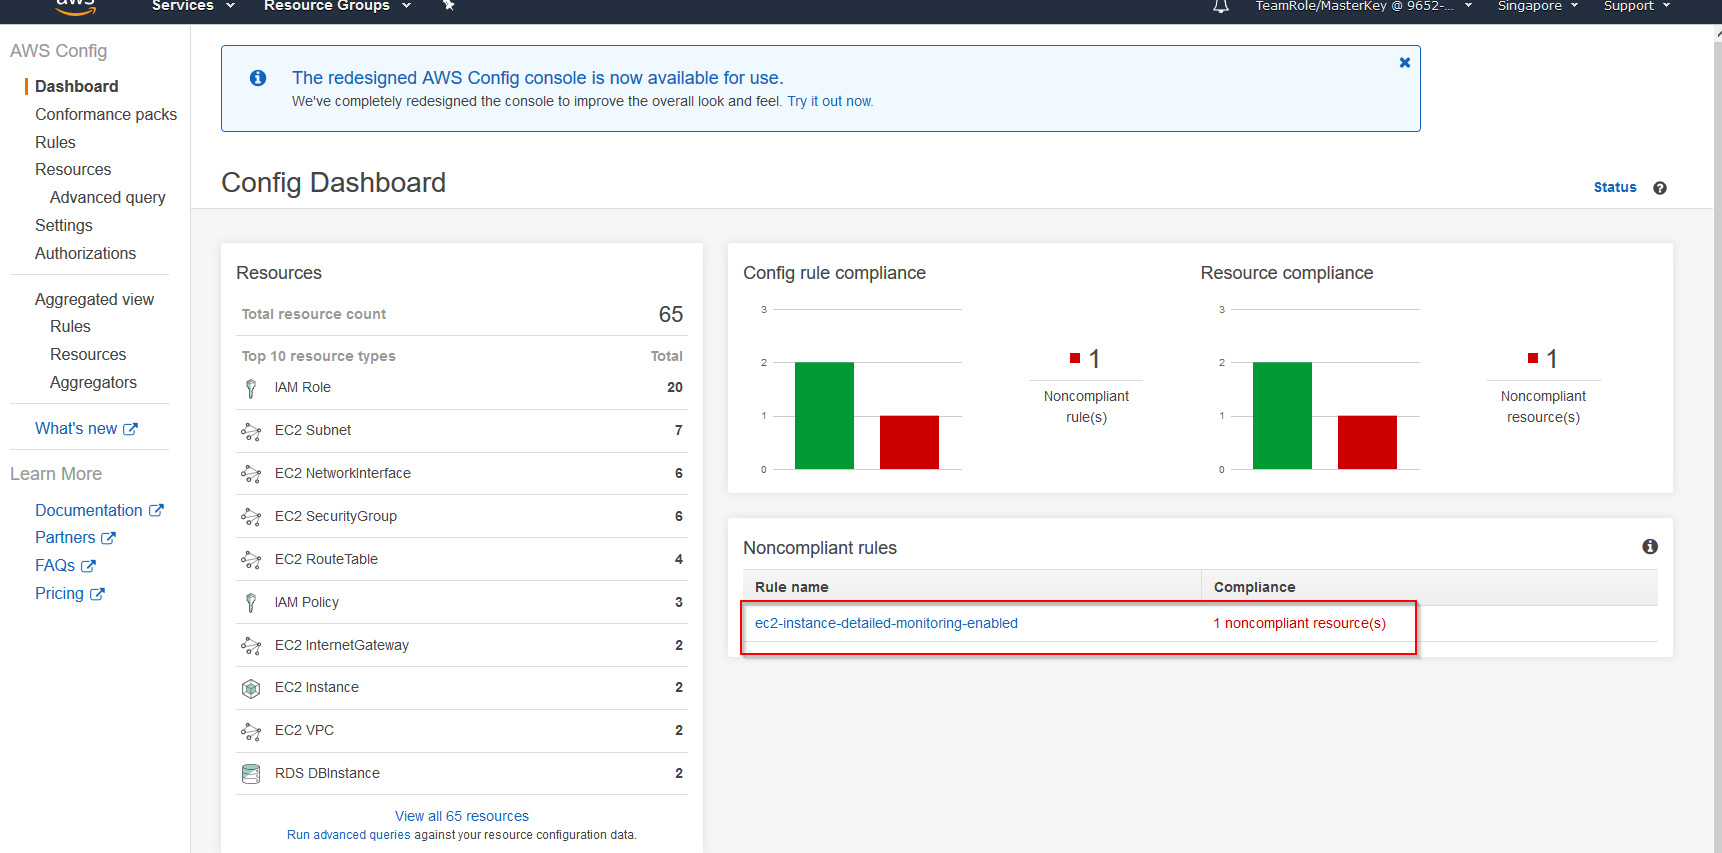
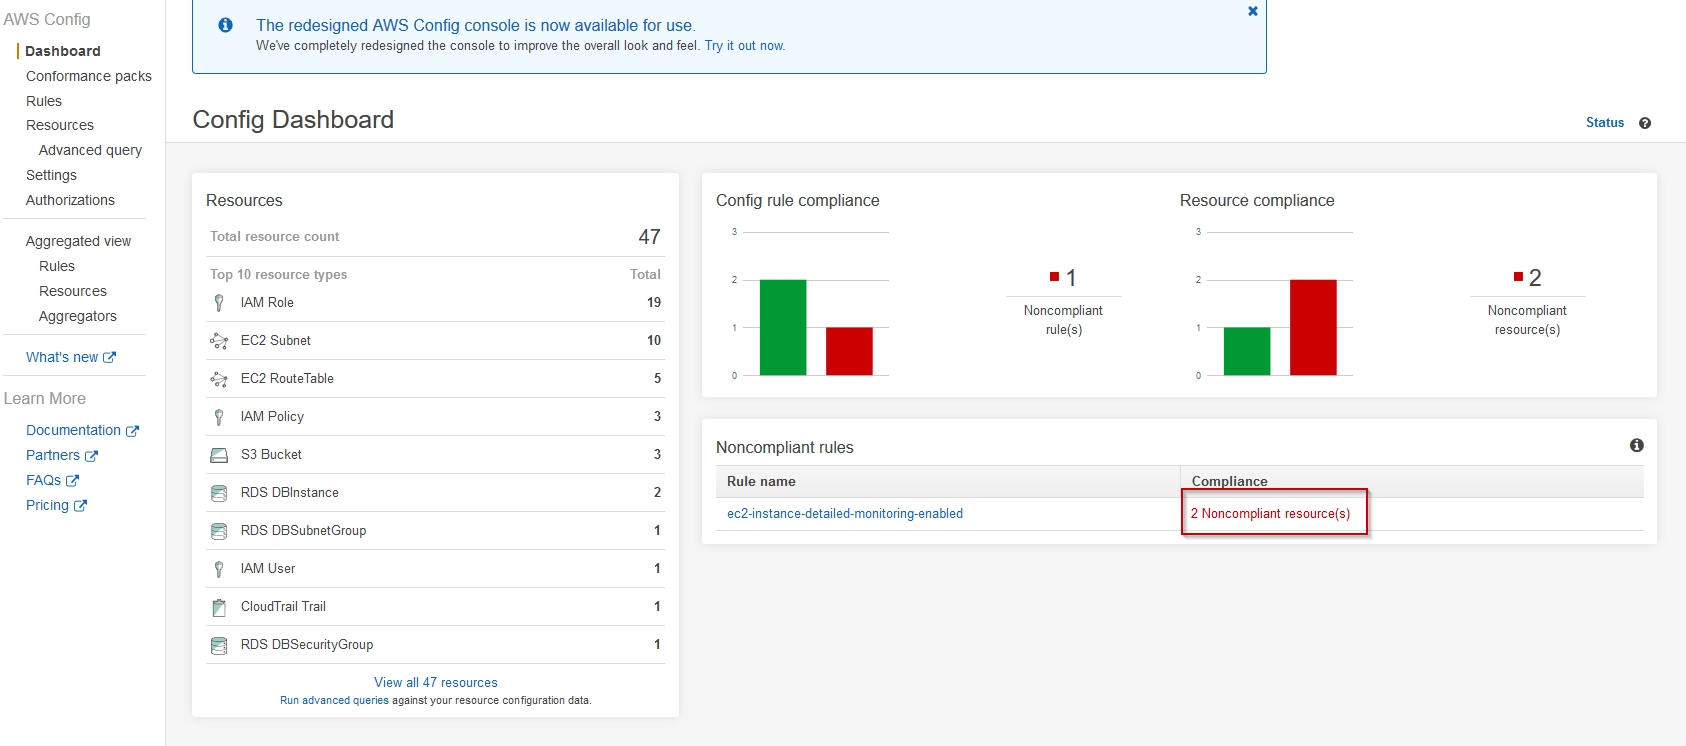
added new items to kms lab

diff --git a/04-KMS-Lab/README.md b/04-KMS-Lab/README.md
@@ -12,7 +12,11 @@ You can use the AWS Management Console to create customer master keys (CMKs).
 
 4.  Choose **Create key**.
 
-5.  Type an alias for the CMK – *techshiftkey2019*. The alias name cannot begin
+5. In **Step 1** we will select the key type that we want to create. In our case it will be a __Symetric__ key.
+
+![/images](images/symetric.png)
+
+6.  Type an alias for the CMK – *security-wrokshop-key*. The alias name cannot begin
     with **aws/**. The **aws/** prefix is reserved by Amazon Web Services to
     represent AWS managed CMKs in your account.
 
@@ -25,7 +29,7 @@ You can use the AWS Management Console to create customer master keys (CMKs).
 
 ![/images](images/a1e125f5a8912c59e287aac9c09ded4b.png)
 
-6.  (Optional) Type a description for the CMK.
+7.  (Optional) Type a description for the CMK.
 
 >   Enter a description that explains the type of data you plan to protect or
 >   the application you plan to use with the CMK. Don't use the description
@@ -38,17 +42,6 @@ You can use the AWS Management Console to create customer master keys (CMKs).
 >   Deletion. To add, change, or delete the description of an existing customer
 >   managed CMK, [edit the CMK](https://docs.aws.amazon.com/kms/latest/developerguide/editing-keys.html#editing-keys-console) in
 >   the AWS Management Console or use the *UpdateKeyDescription* operation.
-
-7.  Choose **Next**.
-
-9.  (Optional) Type a tag key and an optional tag value. To add more than one
-    tag to the CMK, choose **Add tag**.
-
->   When you add tags to your AWS resources, AWS generates a cost allocation
->   report with usage and costs aggregated by tags. For information about
->   tagging CMKs, see [Tagging Keys](https://docs.aws.amazon.com/kms/latest/developerguide/tagging-keys.html).
-
-![/images](images/f7a88fb45e9a11f30667b57531d683d3.png)
 
 10.  Choose **Next**.
 
@@ -70,6 +63,8 @@ You can use the AWS Management Console to create customer master keys (CMKs).
 >   The AWS account (root user) has full permissions by default. As a result,
 >   any IAM policies can also give users and roles permission use the CMK for
 >   cryptographic operations.
+
+![/images](images/keyadminperm.png)
 
 14.  (Optional) You can allow other AWS accounts to use this CMK for
     cryptographic operations. To do so, in the **Other AWS accounts** section at

diff --git a/03-Config-Lab/README.md b/03-Config-Lab/README.md
@@ -17,7 +17,7 @@
 
 4)  Select the following 3 rules:
 * ec2-instance-detailed-monitoring-enabled
-* cloudtrail-enabled 
+* cloudtrail-enabled
 * multi-region-cloudtrail-enabled
 
 **:heavy_exclamation_mark: Use the search bar to find them.** Click *Next* once done.
@@ -41,15 +41,15 @@
 
 ![images](images/7d7b49f223c61764d8af1d1a00f597cb.png)
 
-As we can see there is an alarm raised. This alarm states that there is an EC2 instance that does not have "Detailed Monitoring" Enabled. Let’s proceed and remediate this
+As we can see there is an alarm raised. This alarm states that there are two EC2 instances that don't not have "Detailed Monitoring" Enabled. Let’s proceed and remediate this
 alarm.
 
 9)  Lets click on the alarm and see what EC2 instance does not comply with our configuration rule. Take note of the instance ID so we can remediate this alarm.
 
 ![images](images/config-bad-rule.png)
 
-10)  Now that we have the EC2 instance that is not compliant let's go and enable the "Detaied Monitoring". Go to the *EC2 console* and under __Instances__ search for the 
-instance ID that has the alarm. 
+10)  Now that we have the EC2 instance that is not compliant let's go and enable the "Detaied Monitoring". Go to the *EC2 console* and under __Instances__ search for the
+instance ID that has the alarm.
 
 ![images](images/6ca4ad538d4c9721fa5ee1deaf09ea43.png)
 
@@ -60,6 +60,8 @@ instance ID that has the alarm.
 12)  Click __Yes, Enable__ and then click __Close__ .
 
 ![images](images/yes-enable-dm.png)
+
+**:heavy_exclamation_mark: Repeat step 9 - 12 for the second instance.**
 
 13)  After enbling the detail monitoring, return to the AWS Config Console and re-evaluate the rule that shows the alarm.
 
